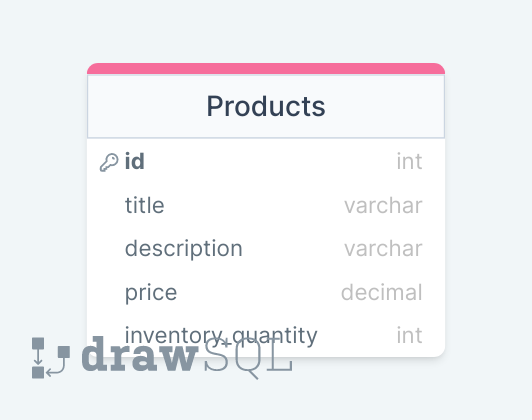
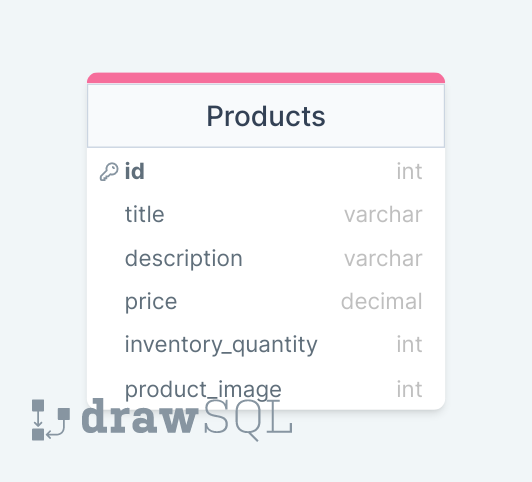
Added product_image field to model and to serializer + updated ERD to reflect the product_image field.

diff --git a/products/migrations/0002_product_product_image.py b/products/migrations/0002_product_product_image.py
@@ -1,0 +1,18 @@
+# Generated by Django 4.1.2 on 2022-10-07 15:18
+
+from django.db import migrations, models
+
+
+class Migration(migrations.Migration):
+
+    dependencies = [
+        ('products', '0001_initial'),
+    ]
+
+    operations = [
+        migrations.AddField(
+            model_name='product',
+            name='product_image',
+            field=models.URLField(blank=True),
+        ),
+    ]

diff --git a/products/serializers.py b/products/serializers.py
@@ -4,4 +4,4 @@ from .models import Product
 class ProductSerializer(serializers.ModelSerializer):
     class Meta:
         model = Product
-        fields = ['id', 'title', 'description', 'price', 'inventory_quantity']
+        fields = ['id', 'title', 'description', 'price', 'inventory_quantity', 'product_image']

diff --git a/products/models.py b/products/models.py
@@ -8,3 +8,4 @@ class Product(models.Model):
     description = models.CharField(max_length=255)
     price = models.DecimalField(max_digits=5, decimal_places=2)
     inventory_quantity = models.IntegerField()
+    product_image = models.URLField(max_length=200, blank=True)
